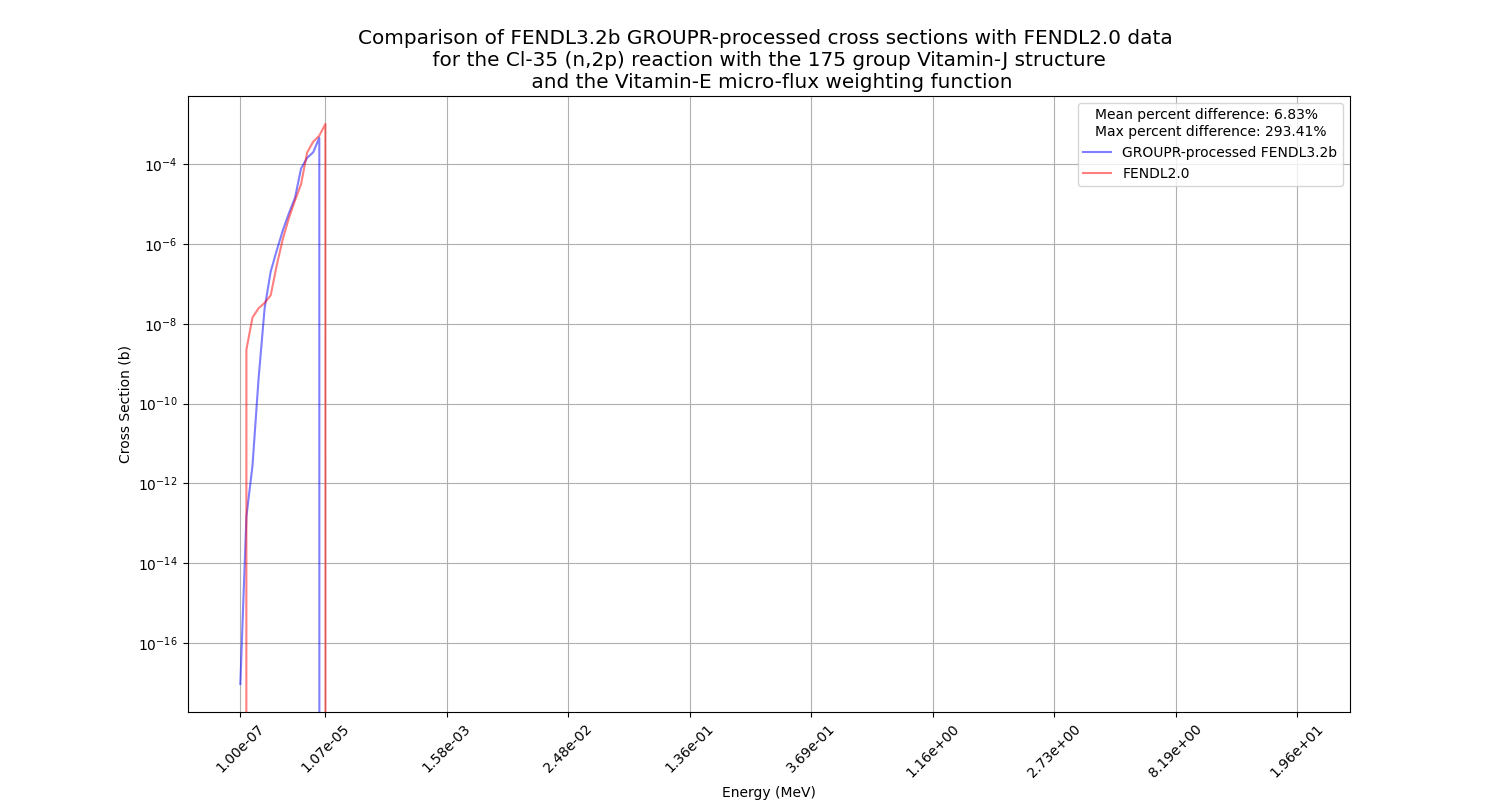
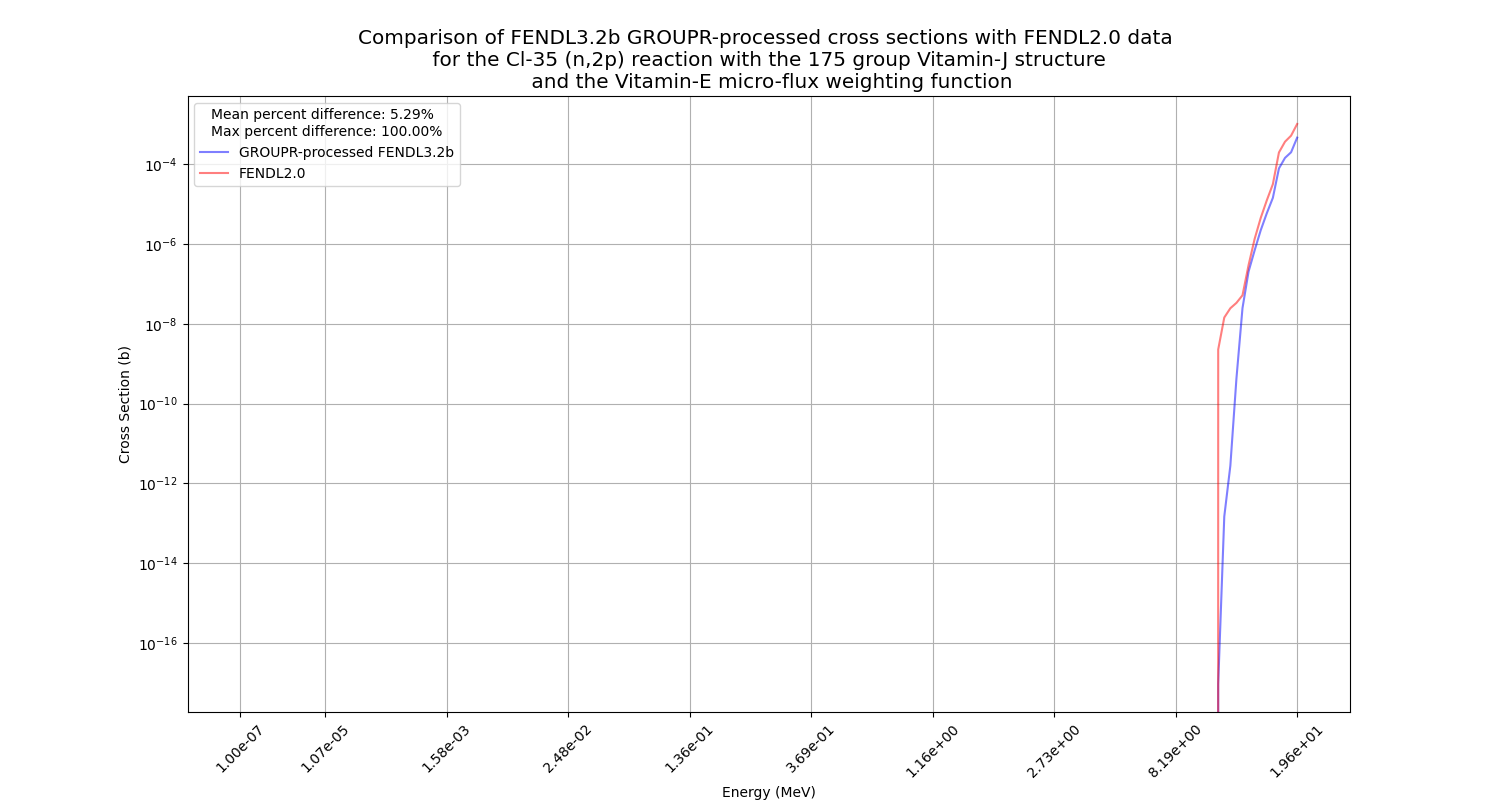
Changing zero prepending to zero appending.

diff --git a/src/DataLib/fendl32B_retrofit/fendl2_comparison/fendl_comparison.py b/src/DataLib/fendl32B_retrofit/fendl2_comparison/fendl_comparison.py
@@ -73,9 +73,9 @@ def args():
    
    return parser.parse_args()
 
-def prepend_with_zeros(cross_sections):
+def append_with_zeros(cross_sections):
    """
-   Include zeroes into the beginning of a list such that the total length of
+   Include zeroes into the end of a list such that the total length of
       of the list is 175, corresponding to the Vitamin-J group structure.
    
    Arguments:
@@ -84,13 +84,12 @@ def prepend_with_zeros(cross_sections):
    
    Returns:
       cross_sections (list): Potentially modified list of cross sections, with
-         zeroes prepended to bring the length of the list to 175.
+         zeroes appended to bring the length of the list to 175.
    """
    
    current_length = len(cross_sections)
    zeros_needed = 175 - current_length
-   cross_sections = [0] * zeros_needed + cross_sections
-
+   cross_sections = cross_sections + [0] * zeros_needed
    return cross_sections
 
 
@@ -126,7 +125,7 @@ def fendl3_cross_sections(gendf_data_csv, element, A, emitted_particles):
    single_isotope_reaction = single_isotope_data[
       single_isotope_data['Emitted Particles'] == emitted_particles
    ]
-   cross_sections = prepend_with_zeros(list(
+   cross_sections = append_with_zeros(list(
       single_isotope_reaction['Cross Sections'].apply(literal_eval)
    )[0])
    
@@ -162,7 +161,7 @@ def fendl2_cross_sections(element, A, emitted_particles, dir = '.'):
          if value:
             cross_sections.append(float(value))
     
-   return np.array(prepend_with_zeros(cross_sections))
+   return np.array(append_with_zeros(cross_sections))
 
 def replace_with_greek(emitted_particles):
    """
